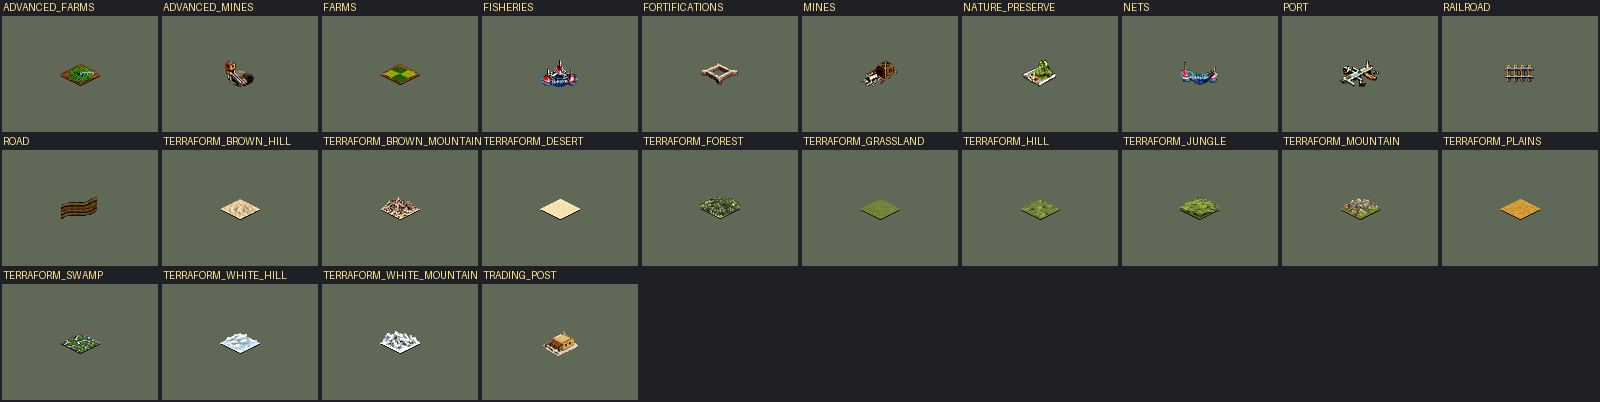
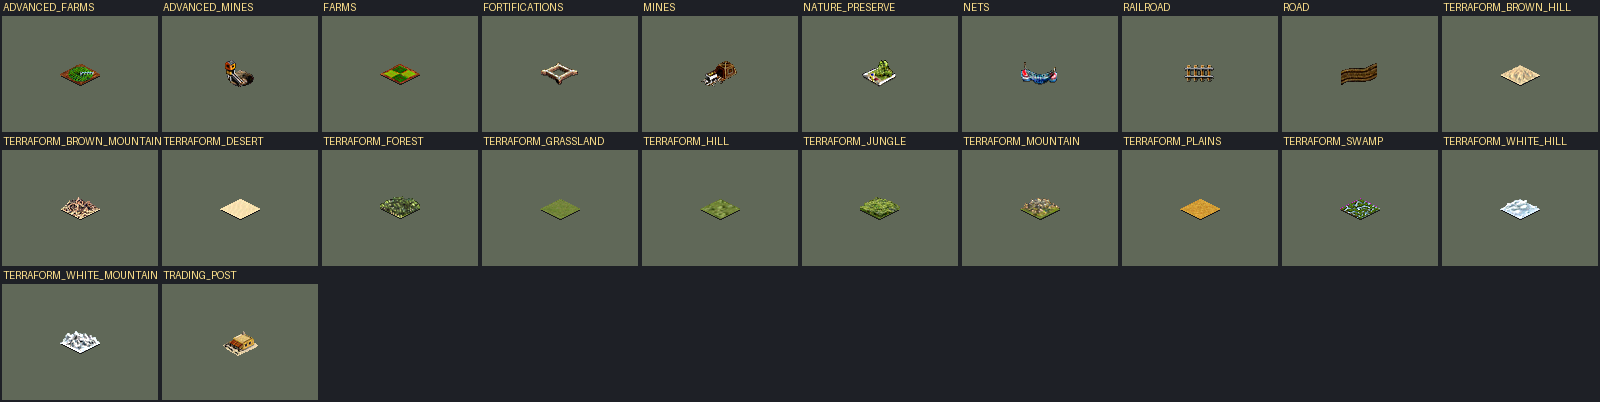
README sheets: show only what players see; government gap is stock CTP2
All 57 placeholder-icon advances are GLHidden, so the compass never shows;
sheets now draw visible records only and count hidden ones (advances 85
shown / 59 hidden). The four missing government icons are named by stock CTP2
itself and ship in none of: base install, Apolyton Edition 2025, Ages of Man
(searched H:\games\ctp2, H:\games\civ2) -- a base-game gap, not a mod one.

Claude-Session: https://claude.ai/code/session_01TGiysEXLez2mCaRrp4FtYc

diff --git a/tools/dimension_sheets.py b/tools/dimension_sheets.py
@@ -48,27 +48,32 @@ CELL_W, CELL_H, LABEL, COLS = 160, 120, 14, 10
 BG, CELL_BG, INK, DIM = (30, 32, 38), (96, 104, 88), (255, 226, 140), (150, 150, 160)
 
 
-def records(text: str, field: str) -> list[tuple[str, str]]:
-    """(record ident, icon key) for every top-level record, in file order.
+def records(text: str, field: str, with_hidden: bool = False) -> list[tuple]:
+    """(record ident, icon key) for every top-level record, in file order; with
+    `with_hidden`, a third element says whether the record is GLHidden (players
+    never see it -- all 57 placeholder-icon advances are hidden, 2026-09-28).
 
     Depth-tracked line scan: records nest sub-blocks, so the first `}` after the
     opener is NOT the record's end (a non-greedy regex runs past it)."""
-    out, depth, ident, icon = [], 0, None, None
+    out, depth, ident, icon, hidden = [], 0, None, None, False
     pat = re.compile(rf"^\s*{field}\s+(ICON_\w+)")
     for line in text.splitlines():
         line = line.split("//", 1)[0]
         if depth == 0:
             m = re.match(r"^\s*([A-Z][A-Z0-9_]*)\s*\{", line)
             if m:
-                ident, icon = m.group(1), None
-        elif depth == 1 and icon is None:
-            m = pat.match(line)
-            if m:
-                icon = m.group(1)
+                ident, icon, hidden = m.group(1), None, False
+        elif depth == 1:
+            if icon is None:
+                m = pat.match(line)
+                if m:
+                    icon = m.group(1)
+            if re.match(r"^\s*GLHidden\b", line):
+                hidden = True
         depth += line.count("{") - line.count("}")
         if depth == 0 and ident:
             if icon:
-                out.append((ident, icon))
+                out.append((ident, icon, hidden) if with_hidden else (ident, icon))
             ident = None
     return out
 
@@ -164,21 +169,25 @@ Source = Path | tuple[Path, int, int] | None      # loose file, packed entry, or
 
 
 def resolve(dim: str, idx: dict[str, Path],
-            packed: dict[str, tuple[Path, int, int]] | None = None) -> list[tuple[str, str, Source]]:
-    """(label, image filename, source) per record of one dimension; loose wins over packed."""
+            packed: dict[str, tuple[Path, int, int]] | None = None) -> tuple[list[tuple[str, str, Source]], int]:
+    """(label, image filename, source) per VISIBLE record of one dimension, and the
+    number of GLHidden records left out; loose art wins over packed."""
     packed = packed or {}
     rec_file, field, db = DIMENSIONS[dim]
     path = SCEN / "gamedata" / rec_file
     if not path.exists():
         path = BASE / "gamedata" / rec_file
     icons = icon_files(db)
-    rows = []
-    for ident, key in records(path.read_text(encoding="latin-1"), field):
+    rows, hidden = [], 0
+    for ident, key, is_hidden in records(path.read_text(encoding="latin-1"), field, True):
+        if is_hidden:
+            hidden += 1
+            continue
         name = icons.get(key, "")
         label = re.sub(r"^(UNIT|ADVANCE|IMPROVE|WONDER|GOVERNMENT|TERRAIN|TILEIMP)_", "", ident)
         src = (idx.get(name.lower()) or packed.get(name.lower())) if name else None
         rows.append((label, name, src))
-    return rows
+    return rows, hidden
 
 
 def load(src: Source) -> Image.Image | None:
@@ -217,17 +226,18 @@ def main() -> int:
     ap.add_argument("--out", type=Path, default=OUT)
     a = ap.parse_args()
     idx, packed = loose_index(), packed_index()
-    print("| Dimension | Records | Mod's own art | Stock game art | No picture (placeholder) | Missing |")
-    print("|---|---:|---:|---:|---:|---:|")
+    print("| Dimension | Shown to players | Mod's own art | Stock game art "
+          "| No picture (placeholder) | Missing | Hidden (not drawn) |")
+    print("|---|---:|---:|---:|---:|---:|---:|")
     for dim in DIMENSIONS:
-        rows = resolve(dim, idx, packed)
+        rows, hidden = resolve(dim, idx, packed)
         draw(rows, a.out / f"{dim}.png")
         ph = sum(1 for _, n, _ in rows if n.lower() == PLACEHOLDER)
         rest = [s for _, n, s in rows if n.lower() != PLACEHOLDER]
         own = sum(1 for s in rest if isinstance(s, Path) and SCEN in s.parents)
         missing = sum(1 for s in rest if s is None)
         stock = len(rest) - own - missing
-        print(f"| {dim} | {len(rows)} | {own} | {stock} | {ph} | {missing} |")
+        print(f"| {dim} | {len(rows)} | {own} | {stock} | {ph} | {missing} | {hidden} |")
     return 0
 
 

diff --git a/tools/test_dimension_sheets.py b/tools/test_dimension_sheets.py
@@ -27,6 +27,18 @@ UNIT_C {
     assert D.records(text, "DefaultIcon") == [("UNIT_A", "ICON_UNIT_A"), ("UNIT_B", "ICON_UNIT_B")]
 
 
+def test_records_flag_hidden_ones_players_never_see():
+    text = """ADVANCE_A {
+   Icon ICON_ADVANCE_A
+}
+ADVANCE_B {
+   GLHidden
+   Icon ICON_ADVANCE_B
+}"""
+    assert D.records(text, "Icon", True) == [("ADVANCE_A", "ICON_ADVANCE_A", False),
+                                             ("ADVANCE_B", "ICON_ADVANCE_B", True)]
+
+
 def _rim(w: int, h: int, pixels: list[int]) -> bytes:
     return b"RIMF" + struct.pack("<I3HH", 1, w, h, w * 2, 0) + struct.pack(f"<{w*h}H", *pixels)
 

diff --git a/README.md b/README.md
@@ -10,25 +10,26 @@ Each sheet is built from what the engine actually loads: the record's icon,
 looked up in the scenario first, then in the base game (loose files and
 the packed `.zfs` archives). Regenerate with `python tools/dimension_sheets.py`.
 
-| Part | Records | Mod's own art | Stock game art | No picture (placeholder) | Missing |
+| Part | Shown to players | Mod's own art | Stock game art | Missing | Hidden (not drawn) |
 |---|---:|---:|---:|---:|---:|
-| Units | 83 | 82 | 1 | 0 | 0 |
-| Advances | 144 | 87 | 0 | 57 | 0 |
+| Units | 81 | 81 | 0 | 0 | 2 |
+| Advances | 85 | 85 | 0 | 0 | 59 |
 | Buildings | 21 | 21 | 0 | 0 | 0 |
 | Wonders | 23 | 23 | 0 | 0 | 0 |
-| Governments | 4 | 0 | 0 | 0 | 4 |
-| Terrain | 26 | 0 | 26 | 0 | 0 |
-| Tile improvements | 24 | 0 | 24 | 0 | 0 |
+| Governments | 4 | 0 | 0 | 4 | 0 |
+| Terrain | 23 | 0 | 23 | 0 | 3 |
+| Tile improvements | 22 | 0 | 22 | 0 | 2 |
 
-"No picture" is the engine's compass placeholder. The four government icons
-(`CC057F`, `CA013F`, `CA016F`, `CA023F`) exist in no archive or folder, so
-those cells are empty in game too.
+Hidden records never appear in the game, so they are counted but not drawn.
+The four government icons (`CC057F`, `CA013F`, `CA016F`, `CA023F`) are named
+by stock Call to Power 2 itself but ship in no release we have (base game,
+Apolyton Edition 2025, Ages of Man), so those icons are blank in the base game too.
 
 ### Units
-![All 83 unit icons](docs/img/sheets/units.png)
+![All 81 unit icons](docs/img/sheets/units.png)
 
 ### Advances
-![All 144 advance icons](docs/img/sheets/advances.png)
+![All 85 advance icons](docs/img/sheets/advances.png)
 
 ### Buildings
 ![All 21 building icons](docs/img/sheets/buildings.png)
@@ -40,10 +41,10 @@ those cells are empty in game too.
 ![All 4 government icons, all missing](docs/img/sheets/governments.png)
 
 ### Terrain
-![All 26 terrain icons](docs/img/sheets/terrain.png)
+![All 23 terrain icons](docs/img/sheets/terrain.png)
 
 ### Tile improvements
-![All 24 tile improvement icons](docs/img/sheets/tile_improvements.png)
+![All 22 tile improvement icons](docs/img/sheets/tile_improvements.png)
 
 > **What 7.0.1 fixes — sprite wiring and spellbook usability.**
 > 20 faction units now have their own art (extracted from HoMM2 + custom
